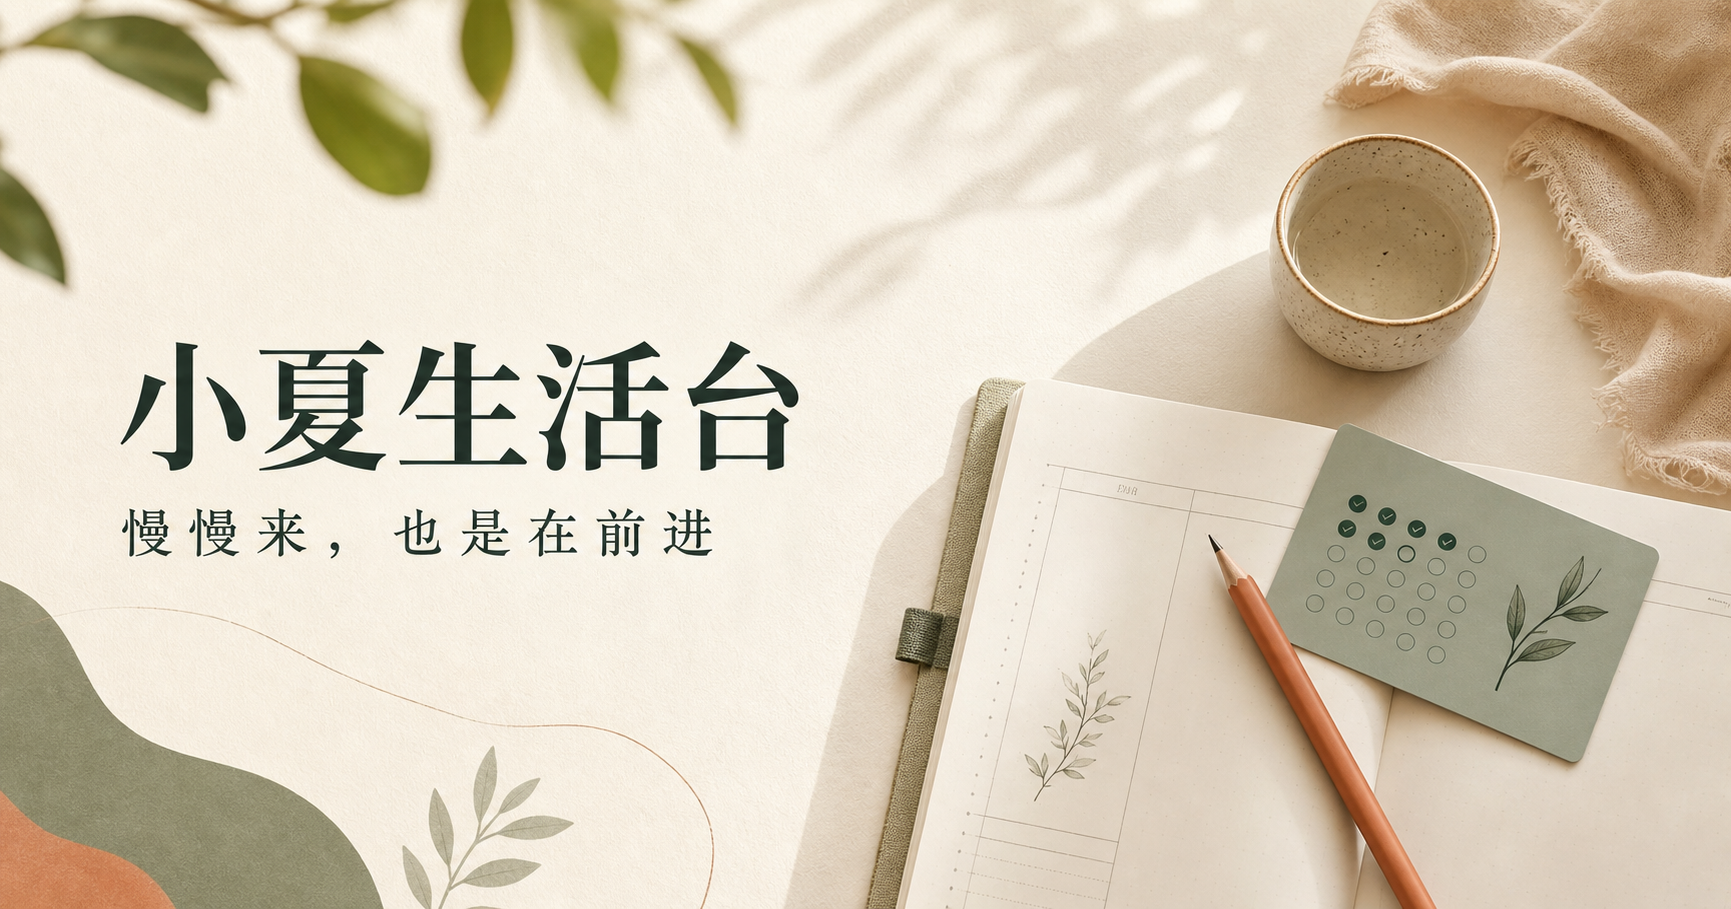
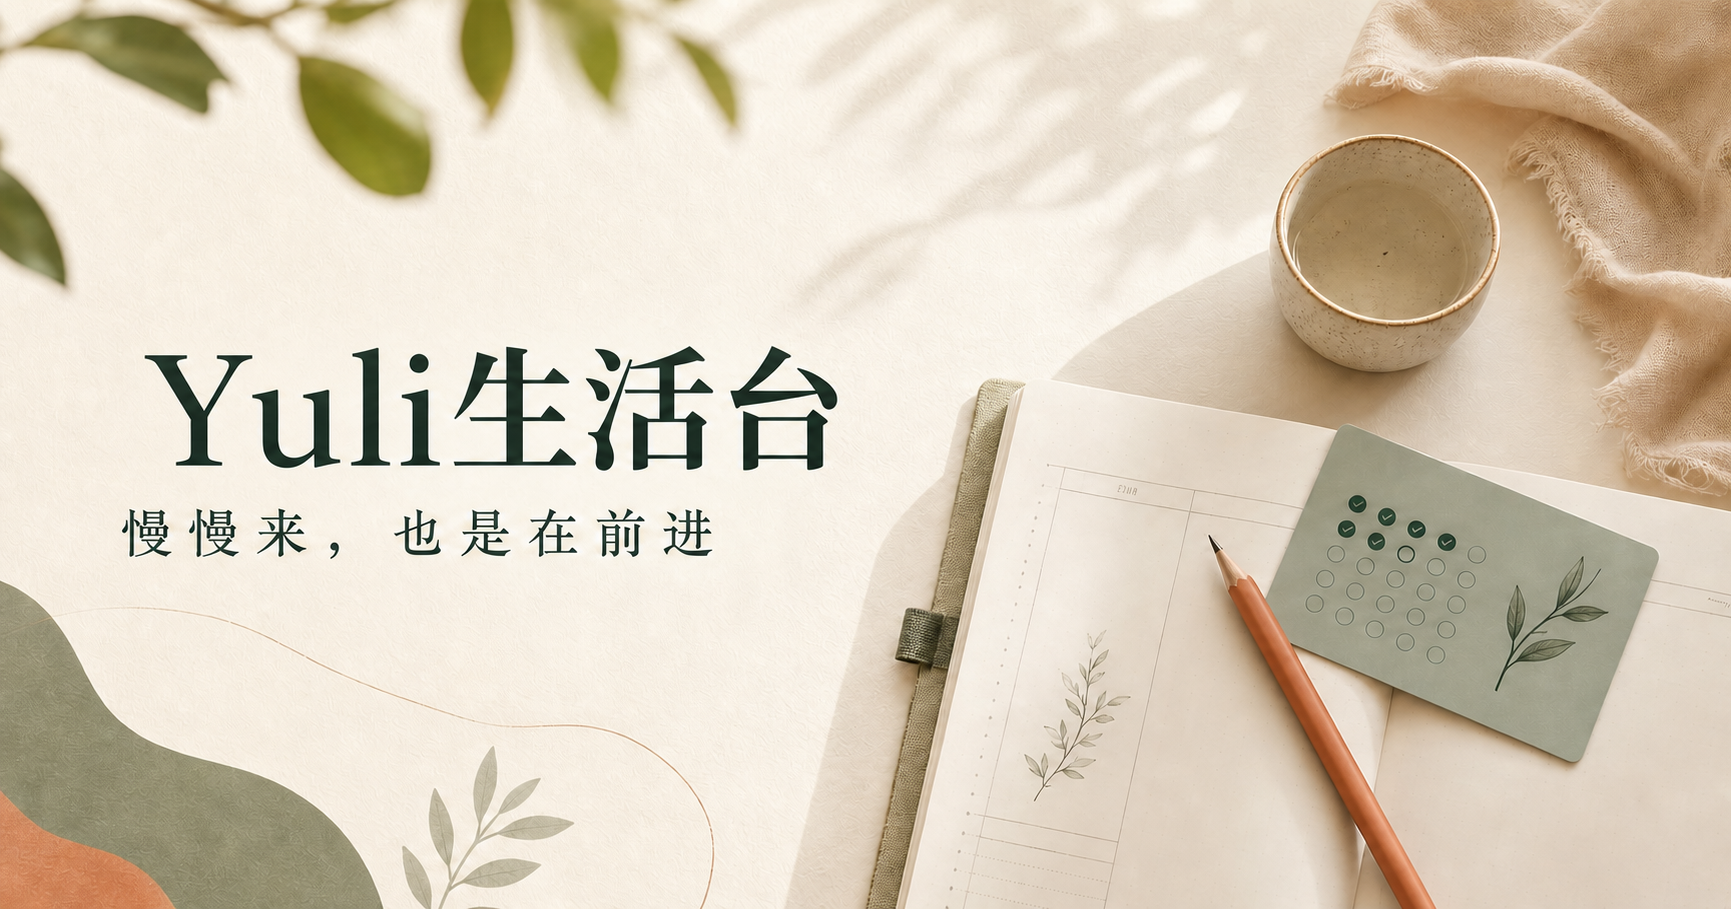
Rename Xia life dashboard to Yuli

diff --git a/life/index.html b/life/index.html
@@ -8,18 +8,18 @@
   <meta name="apple-mobile-web-app-status-bar-style" content="black-translucent">
   <meta name="apple-mobile-web-app-title" content="生活台">
   <meta name="description" content="装进口袋的个人日常生活台">
-  <meta property="og:title" content="小夏生活台">
+  <meta property="og:title" content="Yuli生活台">
   <meta property="og:description" content="慢慢来，也是在前进">
   <meta property="og:image" content="https://yuliyu0809.github.io/yuli-workbench/life/og.png">
   <link rel="manifest" href="manifest.webmanifest">
-  <title>小夏生活台</title>
+  <title>Yuli生活台</title>
   <style>
     :root{--ink:#24342e;--muted:#7b857f;--paper:#f7f3ea;--card:#fffdf8;--sage:#668276;--clay:#d99369;--line:#e9e4d9}*{box-sizing:border-box}html,body{margin:0;background:#e9e4da;color:var(--ink);font-family:-apple-system,BlinkMacSystemFont,"PingFang SC","Microsoft YaHei",sans-serif}button,input,textarea{font:inherit;color:inherit}.app{width:100%;max-width:430px;min-height:100dvh;margin:auto;padding:calc(24px + env(safe-area-inset-top)) 20px calc(104px + env(safe-area-inset-bottom));background:var(--paper);box-shadow:0 0 60px #25322c1f}.top{display:flex;justify-content:space-between;align-items:center;margin-bottom:24px}.eyebrow,.kicker{margin:0 0 5px;color:var(--muted);font-size:11px;font-weight:700;letter-spacing:.13em}h1,h2,p{margin-top:0}h1,h2{font-family:Georgia,"STSong",serif;font-weight:500}h1{margin-bottom:0;font-size:28px}.avatar{width:44px;height:44px;border:1px solid #d9d3c7;border-radius:50%;background:#e4d4c0;color:#6e5849}.focus{display:flex;align-items:center;justify-content:space-between;min-height:152px;padding:25px;border-radius:26px;background:var(--sage);color:#fff;box-shadow:0 16px 35px #4461542e}.focus h2{margin-bottom:8px;font-size:23px}.focus p{margin:0;color:#ffffffb3;font-size:12px}.tag{display:inline-block;margin-bottom:15px;padding:5px 10px;border:1px solid #ffffff40;border-radius:20px;font-size:11px}.ring{display:grid;place-items:center;width:64px;height:64px;flex:none;border-radius:50%;background:conic-gradient(#f2d09c var(--p),#ffffff29 0);position:relative}.ring:after{content:"";position:absolute;inset:7px;border-radius:50%;background:var(--sage)}.ring span{z-index:1;font-size:13px;font-weight:700}.section{margin-top:32px}.section-head{display:flex;justify-content:space-between;align-items:end;margin-bottom:14px}.section-head h2,.note h2{margin-bottom:0;font-size:21px}.add-link{border:0;background:transparent;color:var(--clay);padding:8px 0;font-size:13px;font-weight:700}.list{border:1px solid var(--line);border-radius:20px;background:var(--card);overflow:hidden}.task{width:100%;display:flex;align-items:center;gap:13px;padding:15px 16px;border:0;border-bottom:1px solid var(--line);background:transparent;text-align:left}.task:last-child{border-bottom:0}.check{display:grid;place-items:center;width:23px;height:23px;flex:none;border:1.5px solid #b7beb8;border-radius:50%;color:#fff;font-size:12px}.copy{display:flex;flex-direction:column;gap:4px;flex:1}.copy strong{font-size:14px}.copy small,.habit small{color:var(--muted);font-size:10px}.done .check{border-color:var(--sage);background:var(--sage)}.done strong{color:#9ba09b;text-decoration:line-through}.habits{display:grid;grid-template-columns:repeat(4,1fr);gap:9px}.habit{min-width:0;padding:13px 4px 11px;border:1px solid var(--line);border-radius:17px;background:var(--card);text-align:center;position:relative}.habit-icon{display:grid;place-items:center;width:34px;height:34px;margin:0 auto 9px;border-radius:50%;background:#efe9dd}.habit strong{display:block;font-size:12px}.habit.on{border-color:#bdcbbf;background:#f0f4ed}.habit.on .habit-icon{background:var(--sage);color:#fff}.note{margin-top:30px;padding:20px;border:1px solid #eadcca;border-radius:22px;background:#fbf5eb}.note textarea{width:100%;min-height:82px;margin-top:16px;padding:14px;resize:none;border:0;border-radius:13px;outline:none;background:#ffffffb3;line-height:1.6}.hint{margin:8px 2px 0;color:#a49b8e;font-size:9px;text-align:right}.nav{position:fixed;left:50%;bottom:0;transform:translateX(-50%);width:min(430px,100%);height:calc(72px + env(safe-area-inset-bottom));padding:10px 22px env(safe-area-inset-bottom);display:flex;align-items:flex-start;justify-content:space-between;border-top:1px solid #dcd7cdcc;background:#fffdf8eb;backdrop-filter:blur(18px)}.nav button{width:48px;border:0;background:transparent;color:#939b96;font-size:9px}.nav span{display:block;margin-bottom:3px;font-size:21px}.nav .active{color:var(--sage);font-weight:700}.nav .plus{width:50px;height:50px;margin-top:-27px;border:5px solid var(--paper);border-radius:50%;background:var(--clay);color:#fff;font-size:27px}.backdrop{position:fixed;z-index:10;inset:0;display:none;align-items:flex-end;justify-content:center;background:#1d26224d}.backdrop.show{display:flex}.sheet{width:min(430px,100%);padding:28px 24px calc(26px + env(safe-area-inset-bottom));border-radius:28px 28px 0 0;background:var(--card)}.sheet h2{margin-bottom:18px}.sheet input{width:100%;padding:15px 16px;border:1px solid var(--line);border-radius:14px;outline:none;background:#faf8f3}.primary{width:100%;margin-top:12px;padding:15px;border:0;border-radius:14px;background:var(--sage);color:#fff;font-weight:700}@media(min-width:700px){.app{margin-top:24px;margin-bottom:24px;border-radius:35px}.nav{bottom:24px;border-radius:0 0 35px 35px}}
   </style>
 </head>
 <body>
 <main class="app">
-  <header class="top"><div><p class="eyebrow" id="date"></p><h1>早上好，小夏</h1></div><button class="avatar">夏</button></header>
+  <header class="top"><div><p class="eyebrow" id="date"></p><h1>早上好，Yuli</h1></div><button class="avatar">Y</button></header>
   <section class="focus"><div><span class="tag">今日节奏</span><h2>慢慢来，也是在前进</h2><p>专注当下最重要的一件小事。</p></div><div class="ring" id="ring"><span id="percent">0%</span></div></section>
   <section class="section"><div class="section-head"><div><p class="kicker">MY DAY</p><h2>今天要做</h2></div><button class="add-link" onclick="openAdd()">＋ 添加</button></div><div class="list" id="tasks"></div></section>
   <section class="section"><div class="section-head"><div><p class="kicker">ROUTINE</p><h2>习惯打卡</h2></div><span class="eyebrow">本周状态</span></div><div class="habits" id="habits"></div></section>
